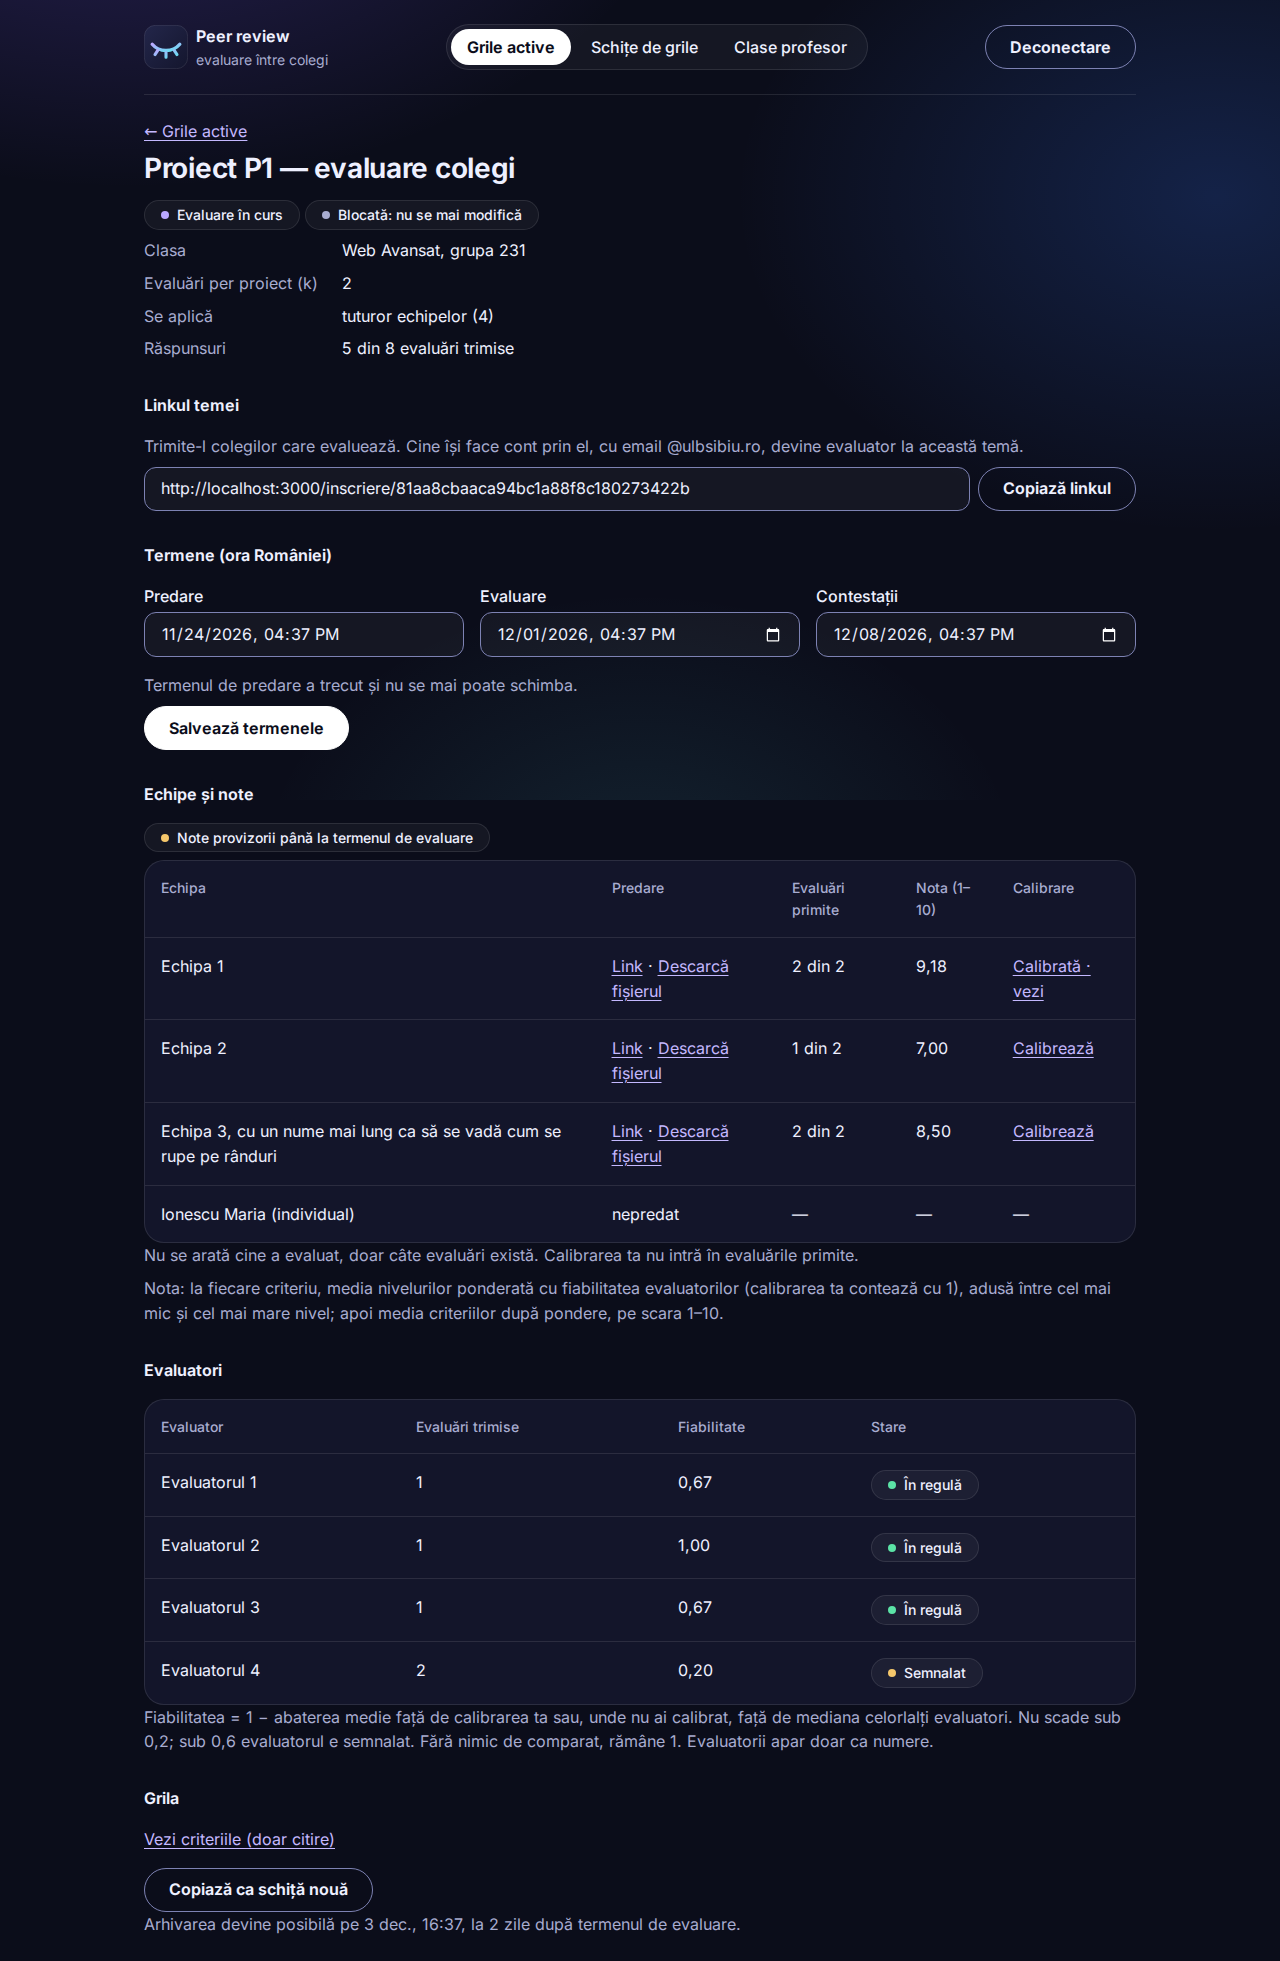
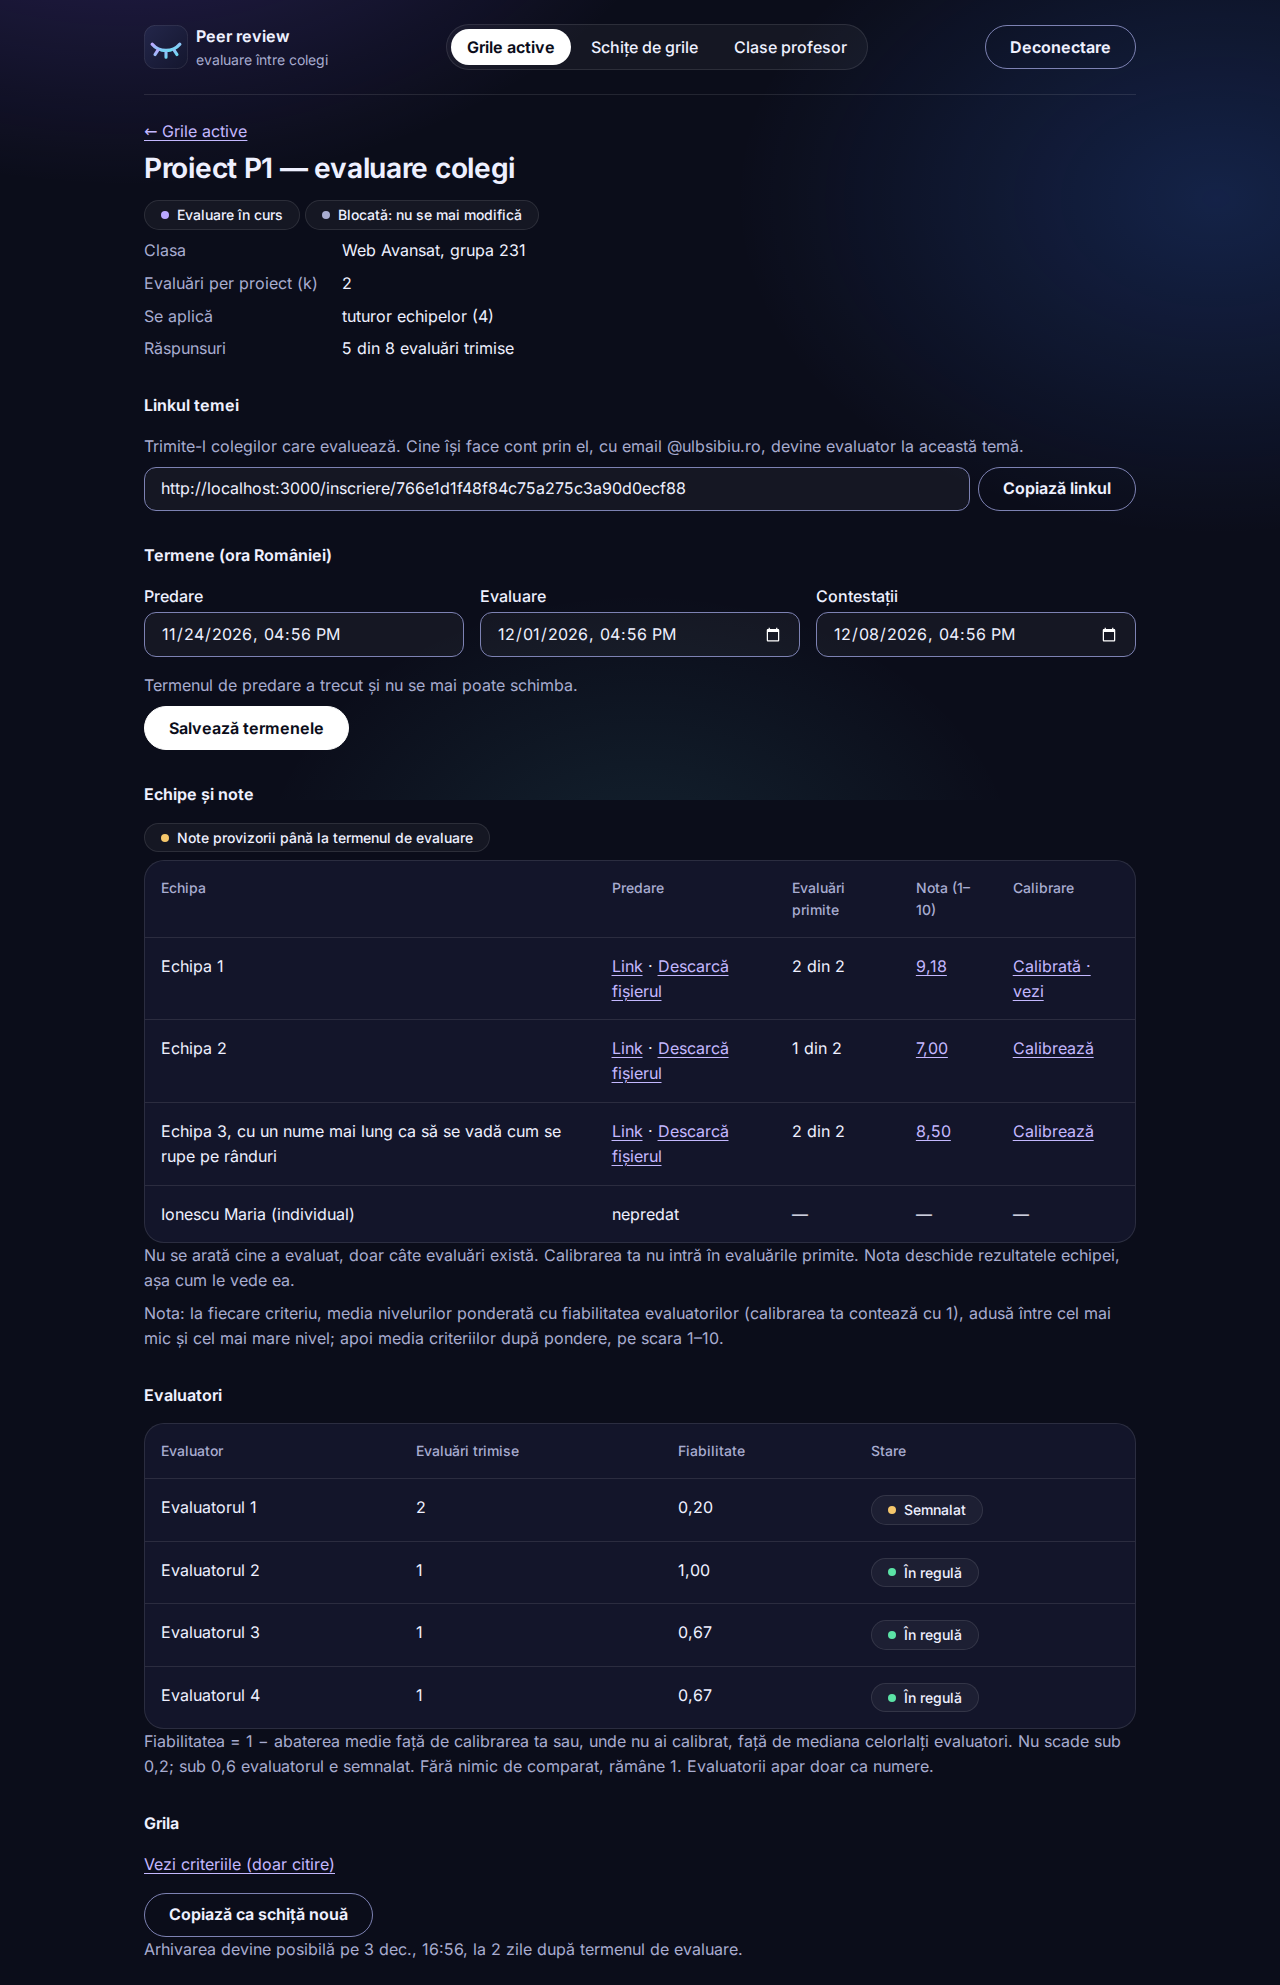
feat(web): Rezultate menu with the team's results explained step by step; the professor opens them from the grade (D-026)

diff --git a/web/src/pages/ResultsPage.tsx b/web/src/pages/ResultsPage.tsx
@@ -1,0 +1,199 @@
+import { Link, useParams } from 'react-router';
+import { api, Results } from '../api';
+import { formatShort } from '../dates';
+import { Loaded } from '../Layout';
+import { useLoad } from '../useLoad';
+import { decimal } from './ActiveRubricDetailPage';
+
+function percent(scaled: number): string {
+  return `${Math.round(scaled * 100)}%`;
+}
+
+/** DS-pr-results-list: the student's evaluated team assignments with a submission (D-026). */
+export function ResultsListPage() {
+  const state = useLoad(() => api.myResults(), []);
+  return (
+    <>
+      <h1>Rezultate</h1>
+      <Loaded state={state}>
+        {(results) =>
+          results.length === 0 ? (
+            <p className="muted">Aici apar notele temelor la care echipa ta a predat un proiect, după termenul de evaluare.</p>
+          ) : (
+            <ol className="list">
+              {results.map((r) => (
+                <li className="item" key={r.assignmentId}>
+                  <h2>{r.title}</h2>
+                  <p className="muted">
+                    {r.className} · {r.teamName}
+                  </p>
+                  {!r.available ? (
+                    <p>
+                      <span className="badge warning">Disponibile după {formatShort(r.reviewDeadline)}</span>
+                    </p>
+                  ) : (
+                    <>
+                      {r.grade !== null ? (
+                        <p>
+                          Nota <strong>{decimal(r.grade)}</strong> din 10
+                        </p>
+                      ) : (
+                        <p>Fără notă: proiectul nu a primit nicio evaluare.</p>
+                      )}
+                      <p>
+                        <Link to={`/rezultate/${r.assignmentId}`}>
+                          {r.grade !== null ? 'Vezi cum a ieșit nota' : 'Vezi detaliile'}
+                        </Link>
+                      </p>
+                    </>
+                  )}
+                </li>
+              ))}
+            </ol>
+          )
+        }
+      </Loaded>
+    </>
+  );
+}
+
+/** DS-pr-results for a team member, after the review deadline. */
+export function MyResultPage() {
+  const { id = '' } = useParams();
+  const state = useLoad(() => api.myResult(id), [id]);
+  return (
+    <>
+      <p>
+        <Link className="button-link secondary" to="/rezultate">
+          ← Rezultate
+        </Link>
+      </p>
+      <Loaded state={state}>{(results) => <ResultsView results={results} />}</Loaded>
+    </>
+  );
+}
+
+/** DS-pr-results for the professor, from the active rubric; provisional before the review deadline. */
+export function TeamResultsPage() {
+  const { id = '', teamId = '' } = useParams();
+  const state = useLoad(() => api.teamResults(id, teamId), [id, teamId]);
+  return (
+    <Loaded state={state}>
+      {(results) => (
+        <>
+          <p>
+            <Link className="button-link secondary" to={`/grile-active/${id}`}>
+              ← {results.title}
+            </Link>
+          </p>
+          <ResultsView results={results} />
+        </>
+      )}
+    </Loaded>
+  );
+}
+
+/** Every step of the grade (D-026). Reviewers appear only as numbers (D-014). */
+function ResultsView({ results: r }: { results: Results }) {
+  const totalWeight = r.criteria.reduce((sum, c) => sum + c.weight, 0);
+  return (
+    <>
+      <h1>{r.title}</h1>
+      <p className="muted">
+        {r.teamName} · {r.provisional ? 'Evaluare până pe' : 'Evaluare încheiată pe'} {formatShort(r.reviewDeadline)}
+      </p>
+      {r.provisional && (
+        <p>
+          <span className="badge warning">Notă provizorie până la termenul de evaluare</span>
+        </p>
+      )}
+      {r.grade === null ? (
+        <p className="lead">Fără notă: proiectul nu a primit {r.provisional ? 'încă ' : ''}nicio evaluare.</p>
+      ) : (
+        <>
+          <p className="lead">
+            Nota <strong>{decimal(r.grade)}</strong> din 10
+          </p>
+
+          <section className="section">
+            <h2>Cum a ieșit nota</h2>
+            <ol className="points">
+              <li>
+                Fiecare evaluator are o pondere, fiabilitatea lui: 1 − abaterea medie față de calibrarea profesorului
+                sau, unde nu există, față de mediana celorlalți evaluatori. Nu scade sub 0,2. O calibrare a profesorului
+                poate fi printre evaluări și are ponderea 1.
+              </li>
+              <li>
+                La fiecare criteriu se face media nivelurilor, ponderată cu ponderile evaluatorilor, și se aduce pe o
+                scară de la 0% (cel mai mic nivel) la 100% (cel mai mare).
+              </li>
+              <li>Nota = 1 + 9 × media acestor procente, ponderată cu ponderile criteriilor.</li>
+            </ol>
+            <div className="table-wrap">
+              <table className="data">
+                <thead>
+                  <tr>
+                    <th>Evaluator</th>
+                    <th>Pondere</th>
+                  </tr>
+                </thead>
+                <tbody>
+                  {r.reviewers.map((reviewer) => (
+                    <tr key={reviewer.number}>
+                      <td>Evaluatorul {reviewer.number}</td>
+                      <td>{decimal(reviewer.weight)}</td>
+                    </tr>
+                  ))}
+                </tbody>
+              </table>
+            </div>
+            <p className="muted">
+              Nota = 1 + 9 × ({r.criteria.map((c) => `${c.weight} × ${percent(c.scaled ?? 0)}`).join(' + ')}) ÷{' '}
+              {totalWeight} = {decimal(r.grade)}
+            </p>
+          </section>
+
+          <ol className="list">
+            {r.criteria.map((criterion) => (
+              <li className="item" key={criterion.position}>
+                <h2>
+                  {criterion.position}. {criterion.title}
+                </h2>
+                <p className="muted">
+                  Pondere {criterion.weight} · niveluri de la {criterion.lowest} la {criterion.highest}
+                </p>
+                <div className="table-wrap">
+                  <table className="data">
+                    <thead>
+                      <tr>
+                        <th>Evaluator</th>
+                        <th>Nivel</th>
+                        <th>Feedback</th>
+                      </tr>
+                    </thead>
+                    <tbody>
+                      {criterion.levels.map((level) => (
+                        <tr key={level.number}>
+                          <td>Evaluatorul {level.number}</td>
+                          <td>
+                            Nota {level.score} · {level.descriptor}
+                          </td>
+                          <td>{level.feedback}</td>
+                        </tr>
+                      ))}
+                    </tbody>
+                  </table>
+                </div>
+                {criterion.mean !== null && criterion.scaled !== null && (
+                  <p>
+                    Media ponderată {decimal(criterion.mean)} → <strong>{percent(criterion.scaled)}</strong> din scară
+                  </p>
+                )}
+              </li>
+            ))}
+          </ol>
+        </>
+      )}
+    </>
+  );
+}

diff --git a/web/src/pages/ActiveRubricDetailPage.tsx b/web/src/pages/ActiveRubricDetailPage.tsx
@@ -13,7 +13,7 @@ const FIELDS: { key: keyof Deadlines; label: string }[] = [
 ];
 
 /** 8,47 — a grade or a reliability with two decimals, as written in Romanian. */
-function decimal(value: number): string {
+export function decimal(value: number): string {
   return value.toLocaleString('ro-RO', { minimumFractionDigits: 2, maximumFractionDigits: 2 });
 }
 
@@ -198,7 +198,15 @@ function Detail({ assignment: a, onChange }: { assignment: AssignmentDetail; onC
                     <td>{team.evaluated && team.submitted ? `${team.reviewsReceived} din ${a.k}` : '—'}</td>
                     {graded && (
                       <>
-                        <td>{grade?.grade != null ? decimal(grade.grade) : '—'}</td>
+                        <td>
+                          {grade ? (
+                            <Link to={`/grile-active/${a.id}/rezultate/${team.id}`}>
+                              {grade.grade !== null ? decimal(grade.grade) : 'fără notă'}
+                            </Link>
+                          ) : (
+                            '—'
+                          )}
+                        </td>
                         <td>
                           {grade && team.submissionId ? (
                             <Link to={`/grile-active/${a.id}/calibrare/${team.submissionId}`}>
@@ -220,7 +228,7 @@ function Detail({ assignment: a, onChange }: { assignment: AssignmentDetail; onC
         {grades.error && <ErrorText message={grades.error} />}
         <p className="muted">
           Nu se arată cine a evaluat, doar câte evaluări există.
-          {graded && ' Calibrarea ta nu intră în evaluările primite.'}
+          {graded && ' Calibrarea ta nu intră în evaluările primite. Nota deschide rezultatele echipei, așa cum le vede ea.'}
         </p>
         {graded ? (
           <p className="muted">

diff --git a/web/src/api.ts b/web/src/api.ts
@@ -160,6 +160,38 @@ export interface Grades {
   reviewers: { number: number; reliability: number; flagged: boolean; measured: boolean; reviewsSent: number }[];
 }
 
+/** D-026: one line of the student's results list. */
+export interface ResultSummary {
+  assignmentId: string;
+  title: string;
+  className: string;
+  teamName: string;
+  reviewDeadline: string;
+  available: boolean;
+  grade: number | null;
+}
+
+/** D-026: every step of a team's grade; reviewers only as numbers. */
+export interface Results {
+  assignmentId: string;
+  title: string;
+  teamName: string;
+  reviewDeadline: string;
+  provisional: boolean;
+  grade: number | null;
+  reviewers: { number: number; weight: number }[];
+  criteria: {
+    position: number;
+    title: string;
+    weight: number;
+    lowest: number;
+    highest: number;
+    mean: number | null;
+    scaled: number | null;
+    levels: { number: number; score: number; descriptor: string; feedback: string }[];
+  }[];
+}
+
 export interface ClassSummary {
   id: string;
   name: string;
@@ -315,6 +347,9 @@ export const api = {
   updateAssignment: (id: string, changes: Partial<Deadlines>) =>
     request<AssignmentDetail>('PATCH', `/assignments/${id}`, changes),
   grades: (id: string) => request<Grades>('GET', `/assignments/${id}/grades`),
+  teamResults: (id: string, teamId: string) => request<Results>('GET', `/assignments/${id}/teams/${teamId}/results`),
+  myResults: () => request<ResultSummary[]>('GET', '/my/results'),
+  myResult: (id: string) => request<Results>('GET', `/my/results/${id}`),
   calibration: (id: string, submissionId: string) =>
     request<Calibration>('GET', `/assignments/${id}/submissions/${submissionId}/calibration`),
   sendCalibration: (id: string, submissionId: string, scores: ScoreInput[]) =>

diff --git a/web/src/App.tsx b/web/src/App.tsx
@@ -14,6 +14,7 @@ import {
 import { ActiveRubricDetailPage } from './pages/ActiveRubricDetailPage';
 import { ActiveRubricsPage } from './pages/ActiveRubricsPage';
 import { CalibrationPage } from './pages/CalibrationPage';
+import { MyResultPage, ResultsListPage, TeamResultsPage } from './pages/ResultsPage';
 import { ClassDetailPage } from './pages/ClassDetailPage';
 import { ClassesPage } from './pages/ClassesPage';
 import { JoinTeamPage } from './pages/JoinTeamPage';
@@ -72,6 +73,7 @@ export function App() {
               <Route path="grile-active" element={<ActiveRubricsPage />} />
               <Route path="grile-active/:id" element={<ActiveRubricDetailPage />} />
               <Route path="grile-active/:id/calibrare/:submissionId" element={<CalibrationPage />} />
+              <Route path="grile-active/:id/rezultate/:teamId" element={<TeamResultsPage />} />
               <Route path="schite" element={<RubricDraftsPage />} />
               <Route path="schite/noua" element={<RubricEditorPage />} />
               <Route path="schite/:id" element={<RubricEditorPage />} />
@@ -92,6 +94,8 @@ export function App() {
               <Route index element={<MyAssignmentsPage />} />
               <Route path="echipa" element={<JoinTeamPage />} />
               <Route path="evaluari/:id" element={<ReviewPage />} />
+              <Route path="rezultate" element={<ResultsListPage />} />
+              <Route path="rezultate/:id" element={<MyResultPage />} />
               <Route path="notificari" element={<NotificationsPage />} />
               <Route path="inscriere/:code" element={<JoinAssignmentPage />} />
             </>

diff --git a/web/src/Layout.tsx b/web/src/Layout.tsx
@@ -42,6 +42,7 @@ export function Layout({ user, onLogout }: { user: User; onLogout: () => void })
             <NavLink to="/" end>
               Temele mele
             </NavLink>
+            <NavLink to="/rezultate">Rezultate</NavLink>
             <NavLink to="/notificari">{unread > 0 ? `Notificări (${unread})` : 'Notificări'}</NavLink>
           </nav>
         )}
